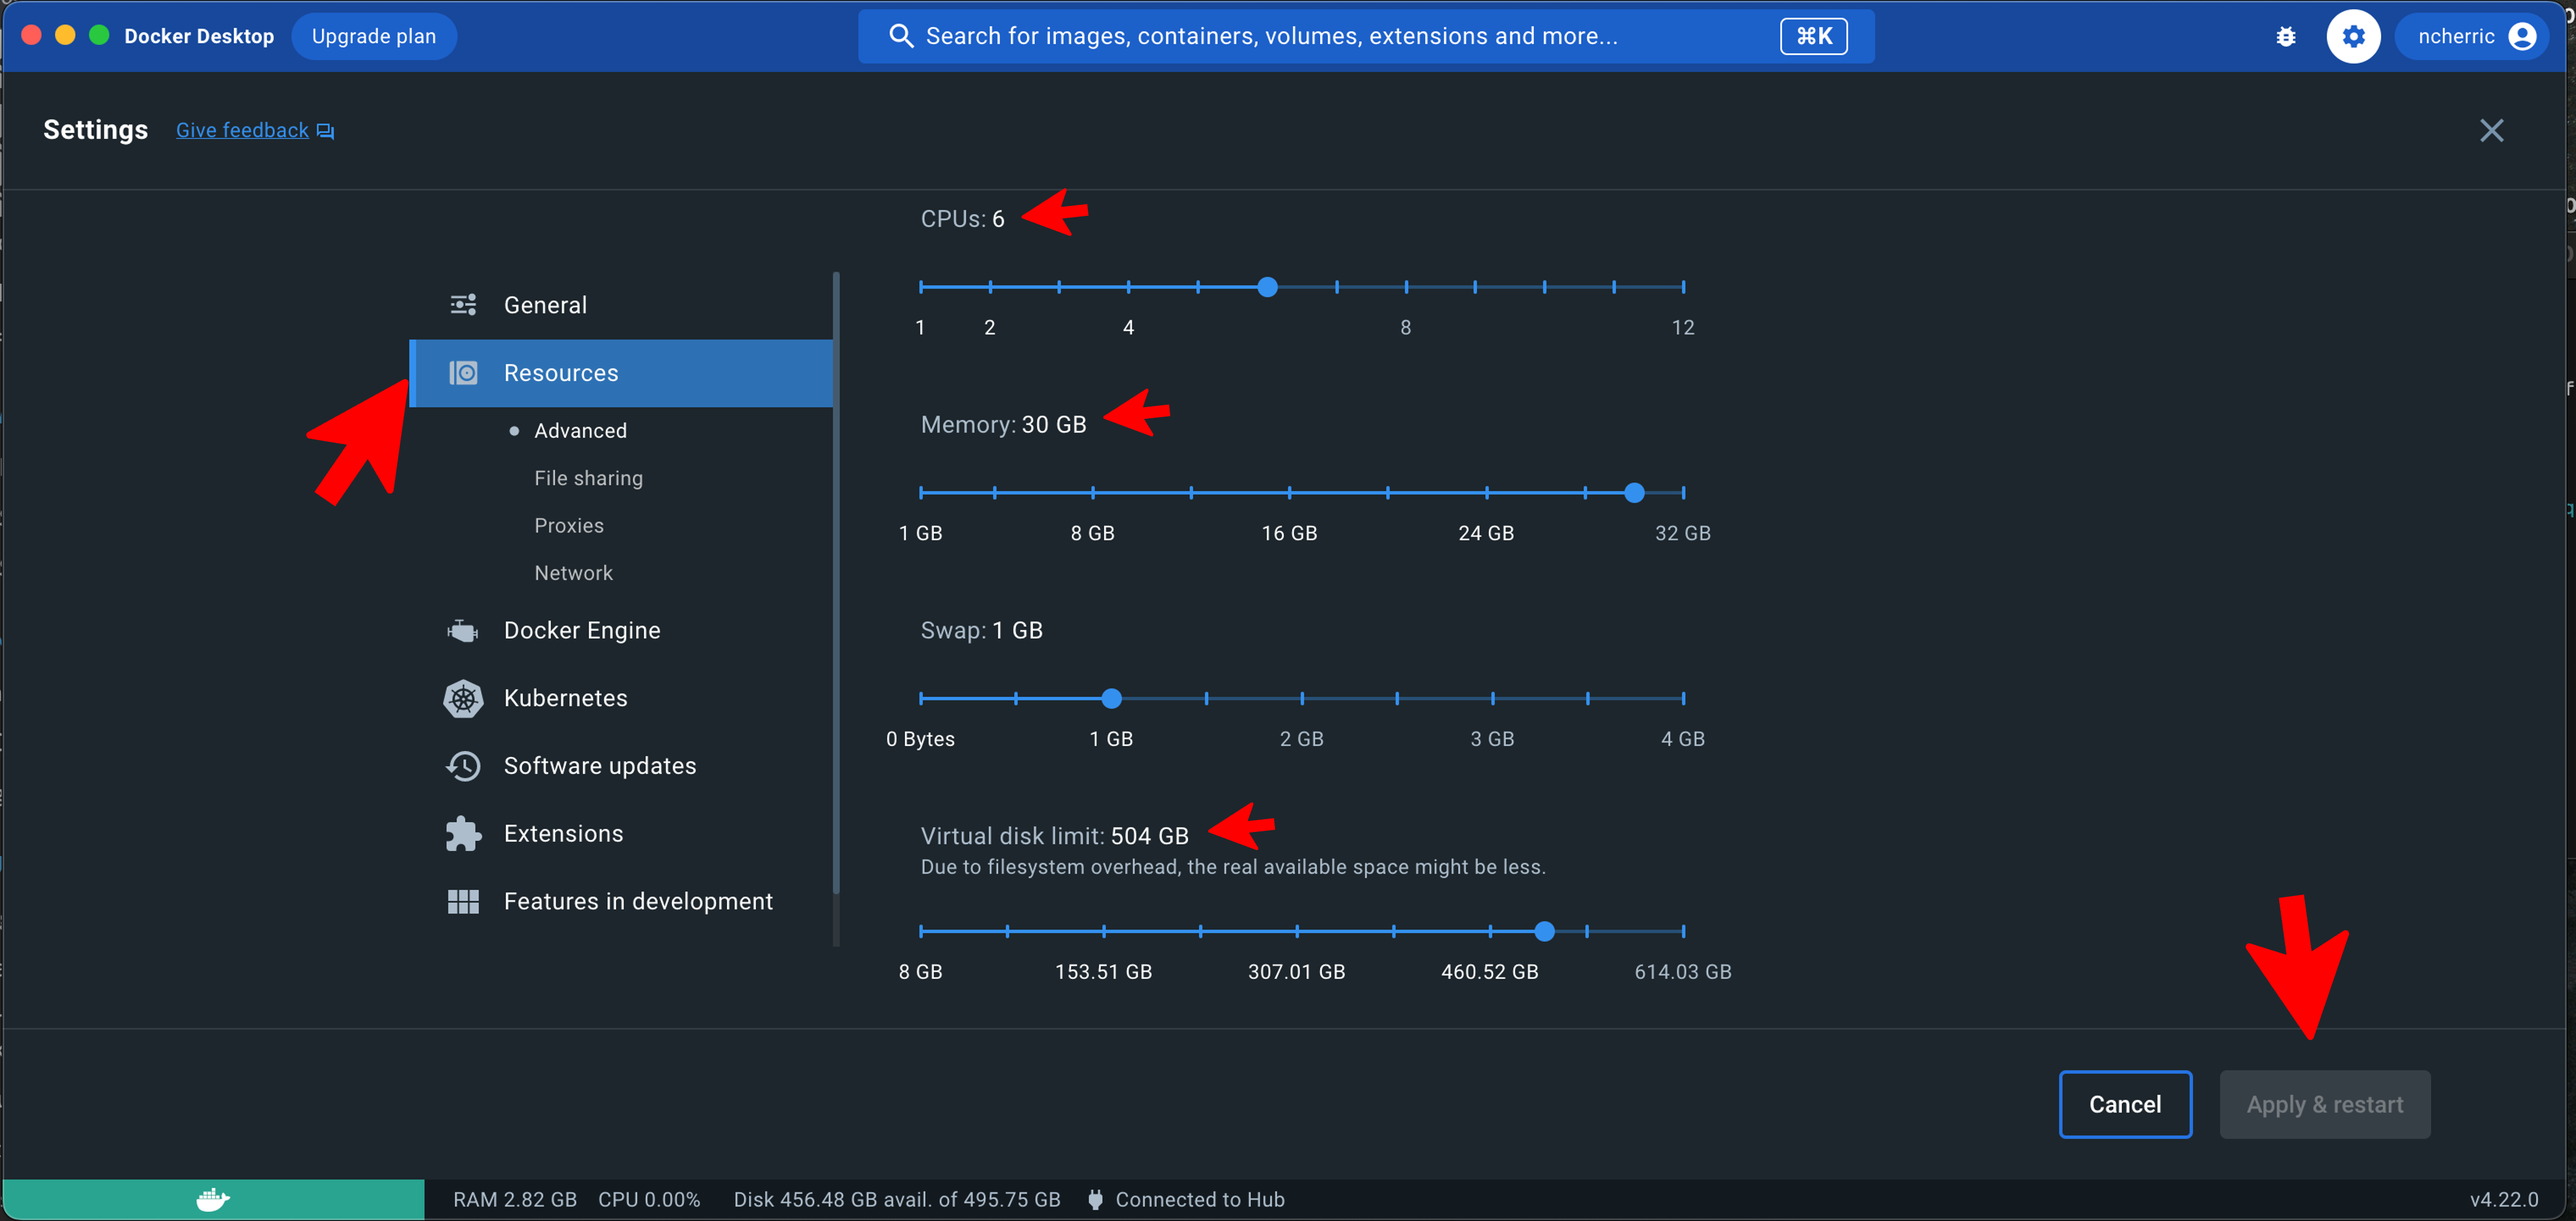
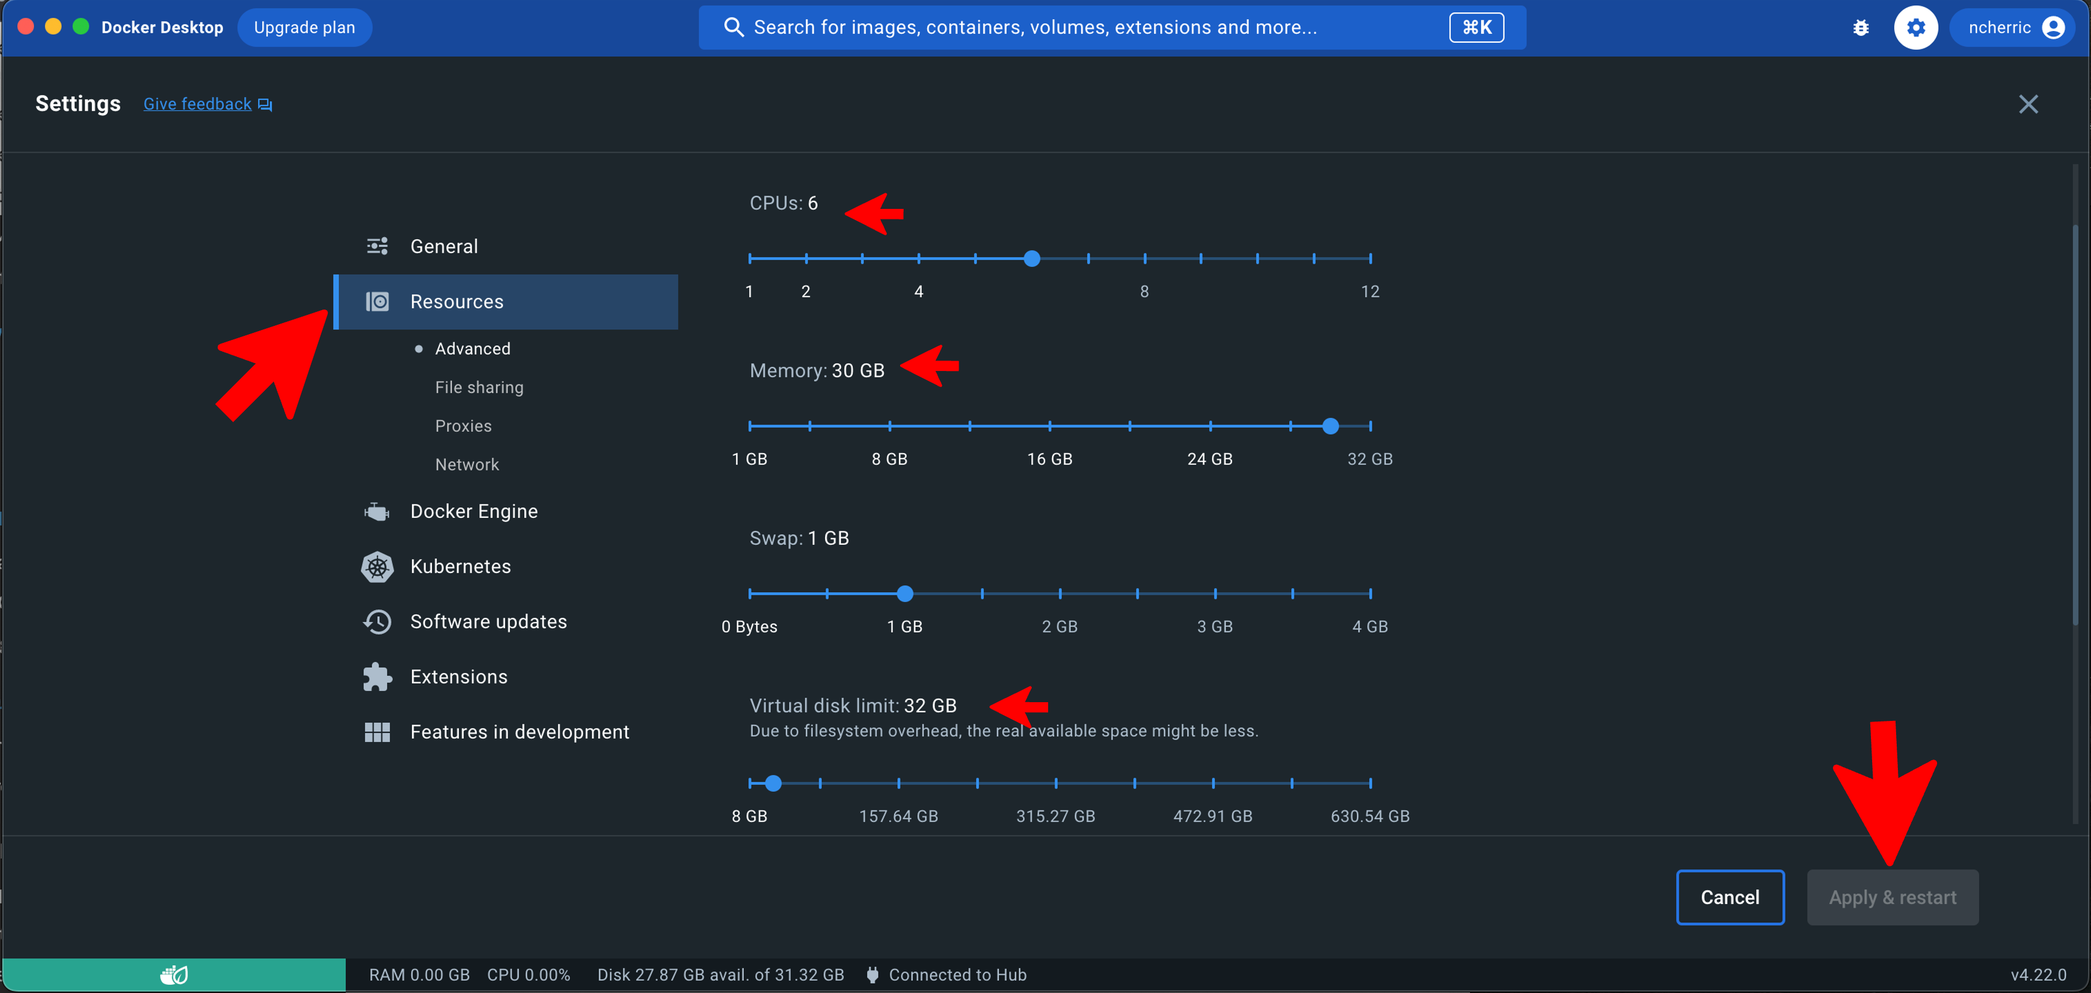
docker docs

diff --git a/docs/getting_started/docker.rst b/docs/getting_started/docker.rst
@@ -45,7 +45,8 @@ Find Settings
    :align: center
    :width: 800
 
-Find Resources and adjust CPUs (6-12), Memory (30 GB), and Virtual disk limit (~20 GB). These will depend on your system's available specs.
+Find Resources and adjust CPUs (6-12), Memory (30 GB), and Virtual disk limit (~32 GB). These will depend on your system's available specs and other uses you have for Docker.
+These suggestions are based on Iliad and this tutorial.
 
 Step 2: Pull image from Docker
 ******************************
